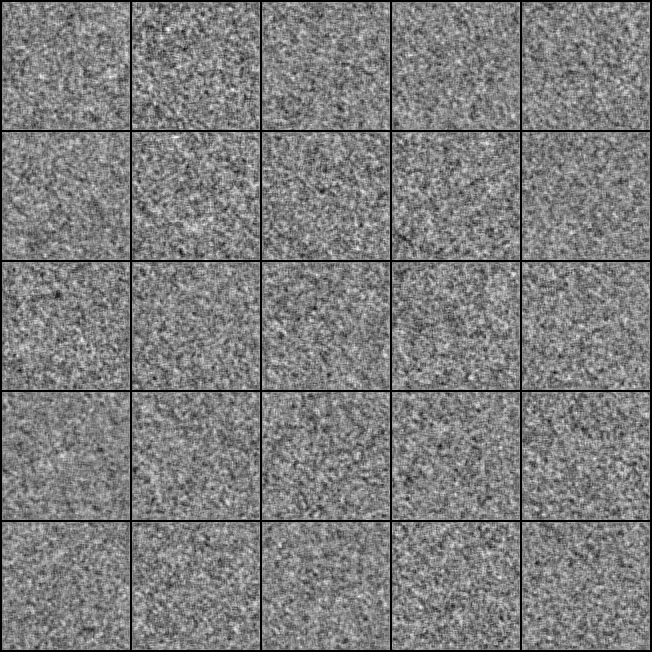
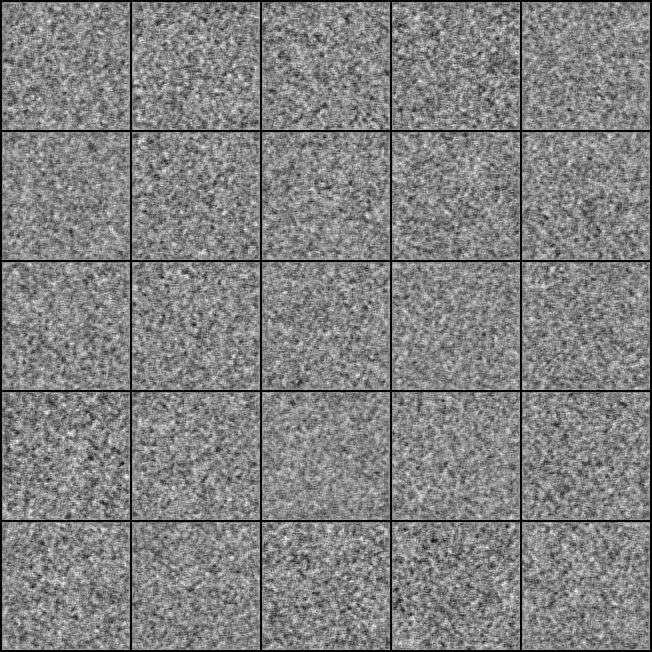
kmong

diff --git a/dcgan.py b/dcgan.py
@@ -17,16 +17,16 @@ import torch
 os.makedirs("images", exist_ok=True)
 
 parser = argparse.ArgumentParser()
-parser.add_argument("--data_dir", type=str, default='./BOSSbase_1.01', help="Data directory")
-parser.add_argument("--n_epochs", type=int, default=200, help="number of epochs of training")
-parser.add_argument("--batch_size", type=int, default=64, help="size of the batches")
+parser.add_argument("--data_dir", type=str, default='./data/original_images', help="Data directory")
+parser.add_argument("--n_epochs", type=int, default=4000, help="number of epochs of training")
+parser.add_argument("--batch_size", type=int, default=4, help="size of the batches")
 parser.add_argument("--lr", type=float, default=0.0002, help="adam: learning rate")
 parser.add_argument("--b1", type=float, default=0.5, help="adam: decay of first order momentum of gradient")
 parser.add_argument("--b2", type=float, default=0.999, help="adam: decay of first order momentum of gradient")
 parser.add_argument("--n_cpu", type=int, default=8, help="number of cpu threads to use during batch generation")
 parser.add_argument("--latent_dim", type=int, default=100, help="dimensionality of the latent space")
-parser.add_argument("--img_size", type=int, default=128, help="size of each image dimension")
-parser.add_argument("--channels", type=int, default=1, help="number of image channels")
+parser.add_argument("--img_size", type=int, default=480, help="size of each image dimension")
+parser.add_argument("--channels", type=int, default=3, help="number of image channels")
 parser.add_argument("--sample_interval", type=int, default=400, help="interval between image sampling")
 opt = parser.parse_args()
 print(opt)
@@ -117,7 +117,7 @@ generator.apply(weights_init_normal)
 discriminator.apply(weights_init_normal)
 
 # Configure data loader
-files = glob.glob(opt.data_dir + '/*.pgm')
+files = glob.glob(opt.data_dir + '/*.jpg')
 image_dataset_generator = dataset_generator(files, opt.batch_size)
 dataloader = image_dataset_generator.dataloader()['train']
 
@@ -181,4 +181,4 @@ for epoch in range(opt.n_epochs):
 
         batches_done = epoch * len(dataloader) + i
         if batches_done % opt.sample_interval == 0:
-            save_image(gen_imgs.data[:25], "images/%d.png" % batches_done, nrow=5, normalize=True)
+            save_image(gen_imgs.data[:25], "data/generated_images/%d.png" % batches_done, nrow=5, normalize=True)

diff --git a/data_gen.py b/data_gen.py
@@ -6,13 +6,13 @@ import cv2
 transform_dict = {
     'train': transforms.Compose([
         transforms.ToPILImage(),
-        transforms.Resize(128),
+        transforms.Resize([480, 480]),
         transforms.ToTensor(),
         transforms.Normalize((0.5, ), (0.5, ))
     ]),
     'test': transforms.Compose([
         transforms.ToTensor(),
-        transforms.Resize(128),
+        transforms.Resize([480, 480]),
         transforms.ToTensor(),
         transforms.Normalize((0.5, ), (0.5, ))
     ])
@@ -41,7 +41,7 @@ class ConstructDataset(Dataset):
 
     def __getitem__(self, index):
         file_name = self.file_list[index]
-        image = cv2.imread(file_name, cv2.IMREAD_GRAYSCALE)
+        image = cv2.imread(file_name, 1)
         image = transform_dict[self.phase](image)
         return image, 1
 
